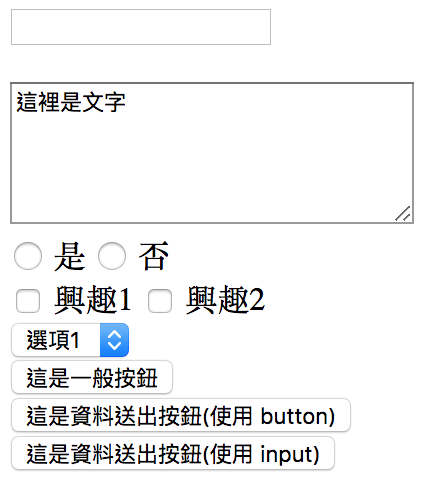
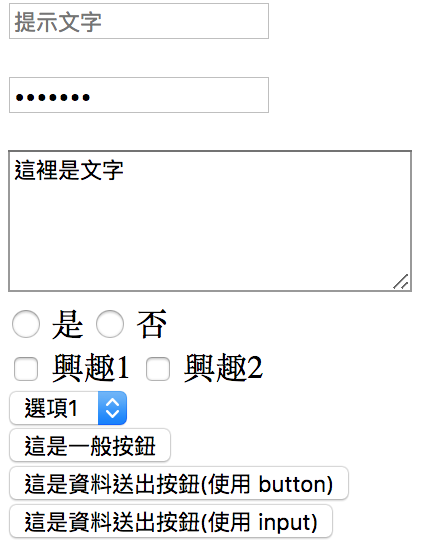
Updates assets/表單基礎.png
Auto commit by GitBook Editor

diff --git a/html/forms.md b/html/forms.md
@@ -22,6 +22,12 @@ get 範例：[http://carlos-studio.com/?address=abc&zone-234](http://carlos-stud
 <input type="text" name="address" value="這是內容" placeholder="提示文字">
 ```
 
+## 文字框：密碼
+
+```
+<input type="text" name="address" value="這是內容" placeholder="提示文字">
+```
+
 ## 多行文字框
 
 ```html
